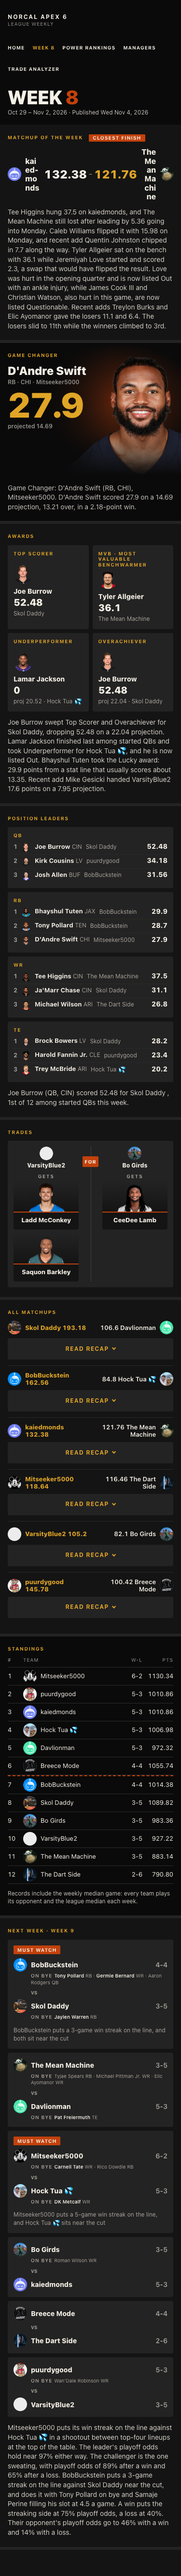
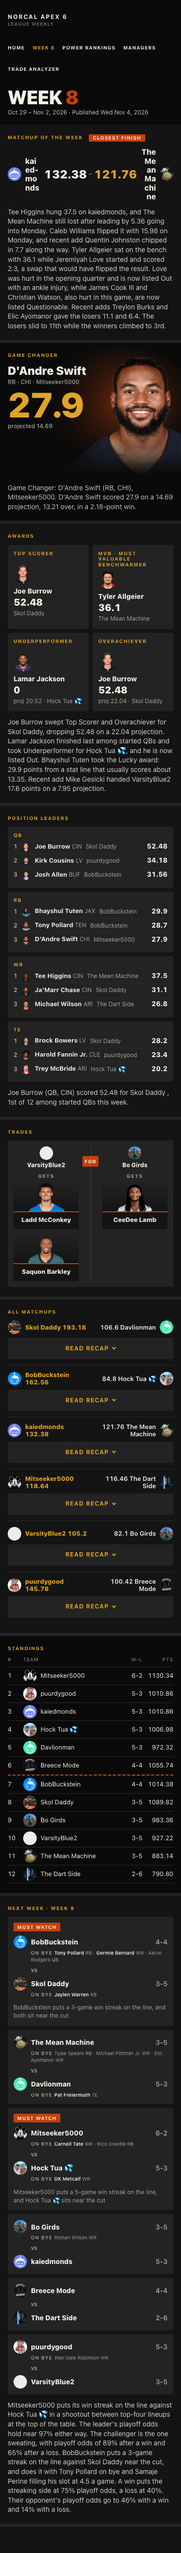
Record the AT-12 evidence again after the median note fix

Changed region(s): [[0.0293, 0.0311, 0.968, 0.9968], [0.5867, 0.7787, 0.616, 0.8099], [0.44, 0.4984, 0.4693, 0.5295]]

diff --git a/.scratch/clients/EVIDENCE.md b/.scratch/clients/EVIDENCE.md
@@ -2,6 +2,7 @@
 
 Spec: `.scratch/clients/PRD.md`. Acceptance tests: `.scratch/clients/ACCEPTANCE.md`.
 Built from: `c5634be`, on 2026-11-04. The agent gives no Test verdict. Brian gives one for each test.
+AT-12 was taken again from `cb700b4`, after the fix of the median note.
 
 Notes on the method:
 
@@ -94,8 +95,8 @@ Observation: `make -C apps/pipeline page-json CLIENT=norcal WEEK=8` exited 0. In
 
 App: both
 Then: the wins and the losses of each team add up to 8.
-Files: `evidence/AT-12/fields.txt`, `evidence/AT-12/local/375-light.png`, `evidence/AT-12/local/375-dark.png`, `evidence/AT-12/local/768-light.png`, `evidence/AT-12/local/768-dark.png`, `evidence/AT-12/local/1280-light.png`, `evidence/AT-12/local/1280-dark.png`
-Observation: In the rebuilt and the published `page.json`, each of the 12 teams has wins plus losses of 8, from Mitseeker5000 at 6-2 to The Dart Side at 2-6. The last week of `rankings.json` gives the same sums. The standings shots show the same 12 records. Under the table, each shot shows the note "Records include the weekly median game: every team plays its opponent and the league median each week."
+Files: `evidence/AT-12/fields.txt`, `evidence/AT-12/local/375-light.png`, `evidence/AT-12/local/375-dark.png`, `evidence/AT-12/local/768-light.png`, `evidence/AT-12/local/768-dark.png`, `evidence/AT-12/local/1280-light.png`, `evidence/AT-12/local/1280-dark.png`, `evidence/AT-12/live/375-light.png`, `evidence/AT-12/live/375-dark.png`, `evidence/AT-12/live/768-light.png`, `evidence/AT-12/live/768-dark.png`, `evidence/AT-12/live/1280-light.png`, `evidence/AT-12/live/1280-dark.png`
+Observation: In the rebuilt and the published `page.json`, each of the 12 teams has wins plus losses of 8, from Mitseeker5000 at 6-2 to The Dart Side at 2-6. The last week of `rankings.json` gives the same sums. The `local` shots come from a build of the head of `clients`, which holds fix commit `cb700b4`. The `live` shots come from `https://norcal.4thandgoal.app/2026/week-08/`. All shots show the same 12 records. Under the table, no shot has the note "Records include the weekly median game". The text of both pages also lacks the word "median". NorCal has one dark set and no theme button, so the light and dark shots of each width are identical. Each live shot has the same pixels as its local shot.
 
 ## AT-13: NorCal has no DEF
 
